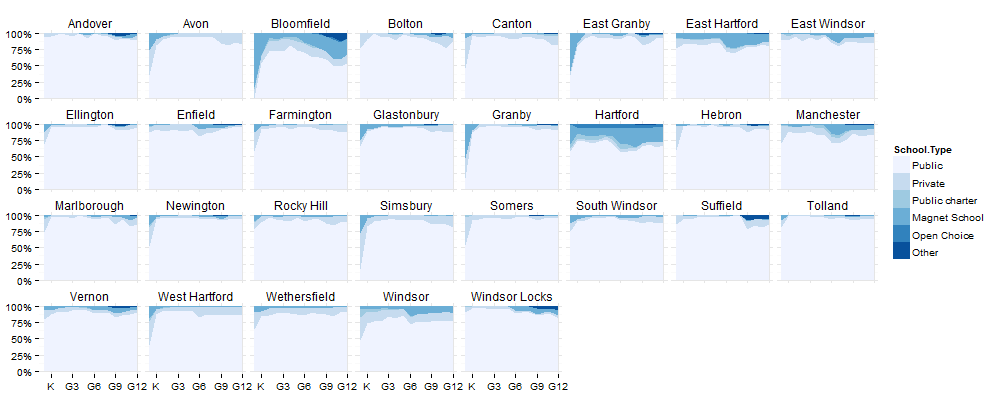
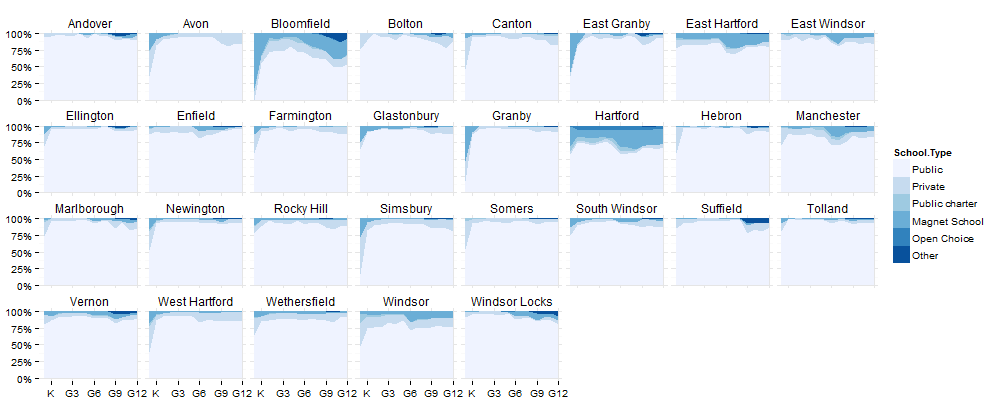
Corrected issue with enrollment graph

diff --git a/index.html b/index.html
@@ -491,8 +491,7 @@ between 2000 and 2010. This is driven by continued population loss in Hartford -
   <article data-timings="">
     <p>The Hartford area is characterized by school choice - magnet, charter and private schools draw in 1 in 7 students from the region. Parents choose to go beyond the local school system more often in higher grades and in towns with higher income inequality. In Bloomfield, for instance, 50 percent of parents send their children to magnet or private schools by 10th grade. </p>
 
-<pre><code>Error: object &#39;variable&#39; not found
-</code></pre>
+<p><img src="assets/fig/unnamed-chunk-1.png" alt="plot of chunk unnamed-chunk-1"> </p>
 
   </article>
   <!-- Presenter Notes -->

diff --git a/index.md b/index.md
@@ -435,10 +435,7 @@ While outer ring suburbs, like Tolland and Simsbury, are still predominantly whi
 
 The Hartford area is characterized by school choice - magnet, charter and private schools draw in 1 in 7 students from the region. Parents choose to go beyond the local school system more often in higher grades and in towns with higher income inequality. In Bloomfield, for instance, 50 percent of parents send their children to magnet or private schools by 10th grade. 
 
-
-```
-Error: object 'variable' not found
-```
+![plot of chunk unnamed-chunk-1](assets/fig/unnamed-chunk-1.png) 
 
 
 --- .class #id 
